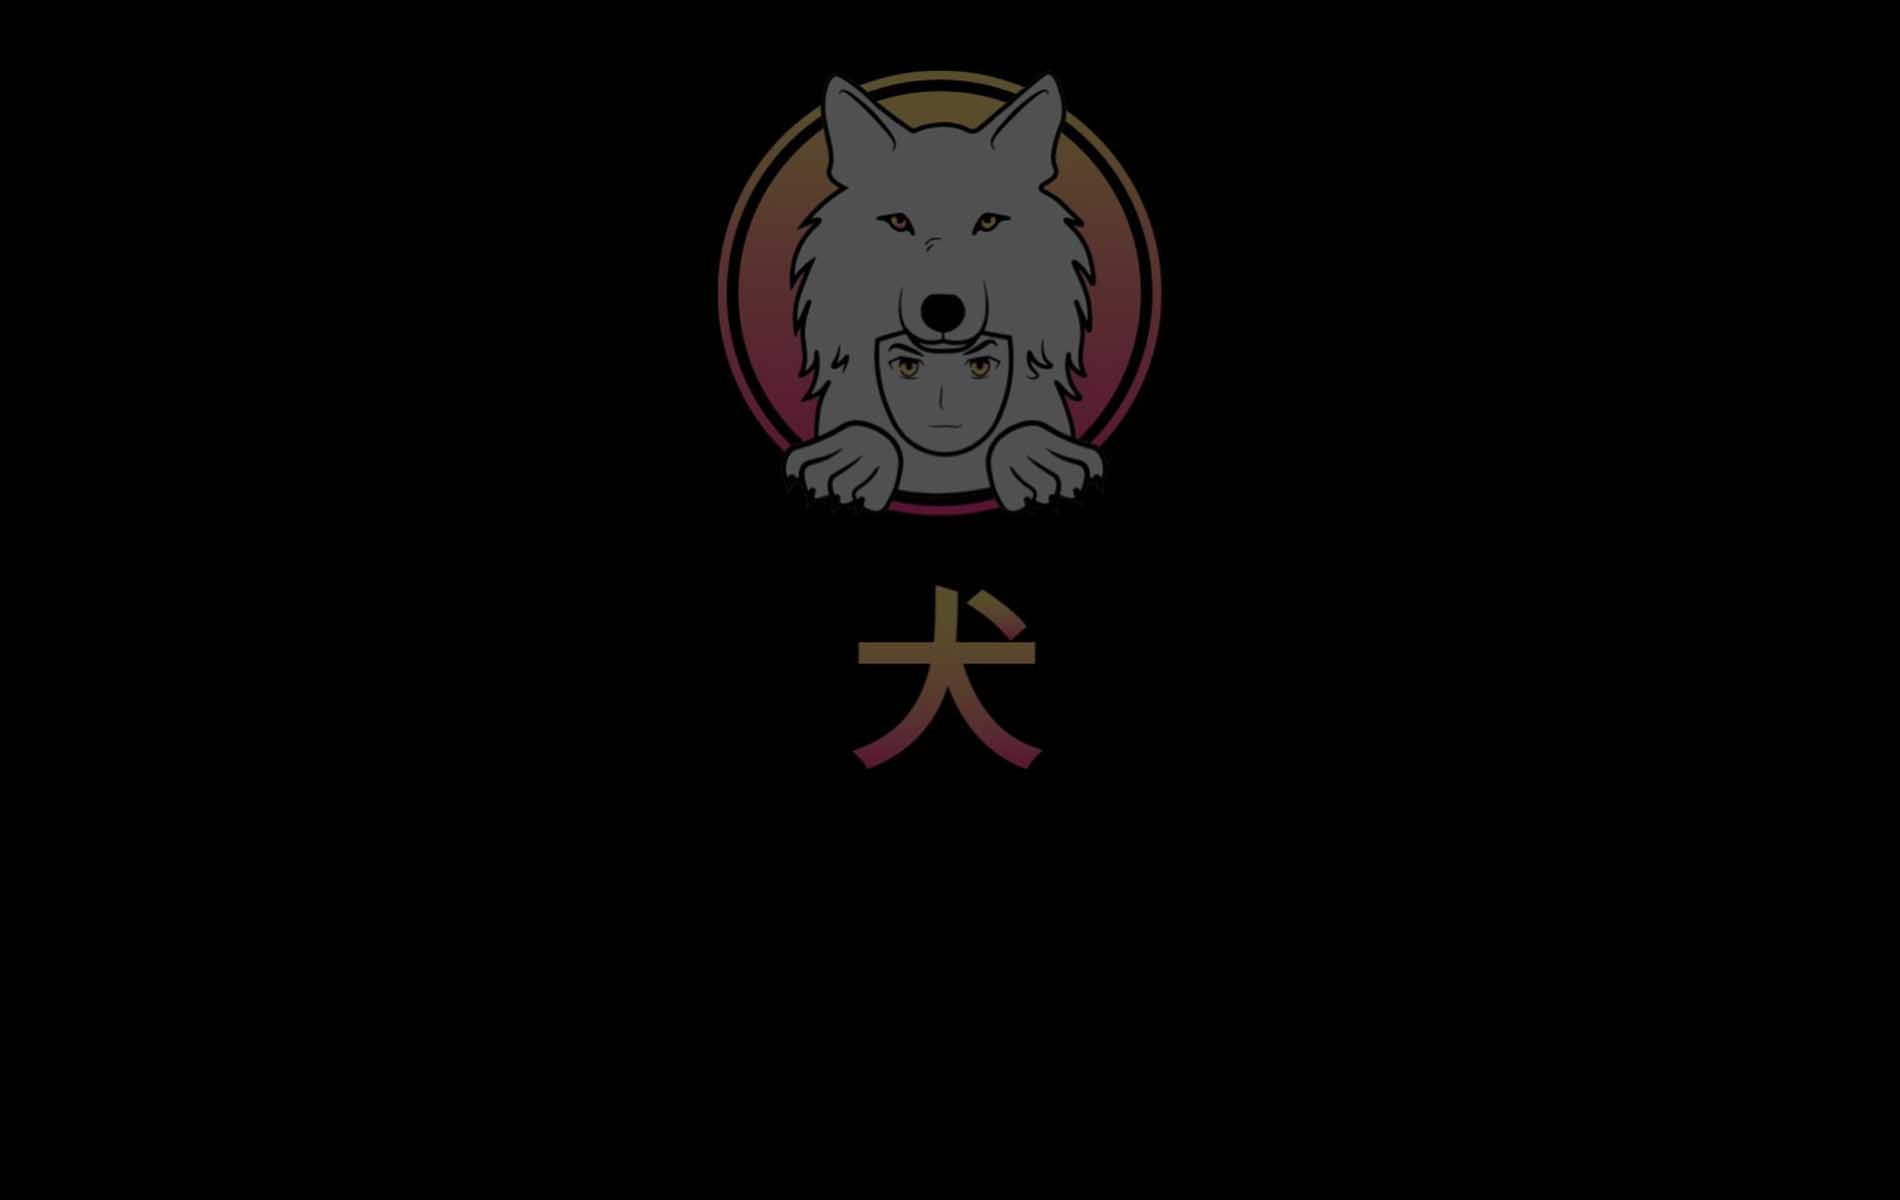
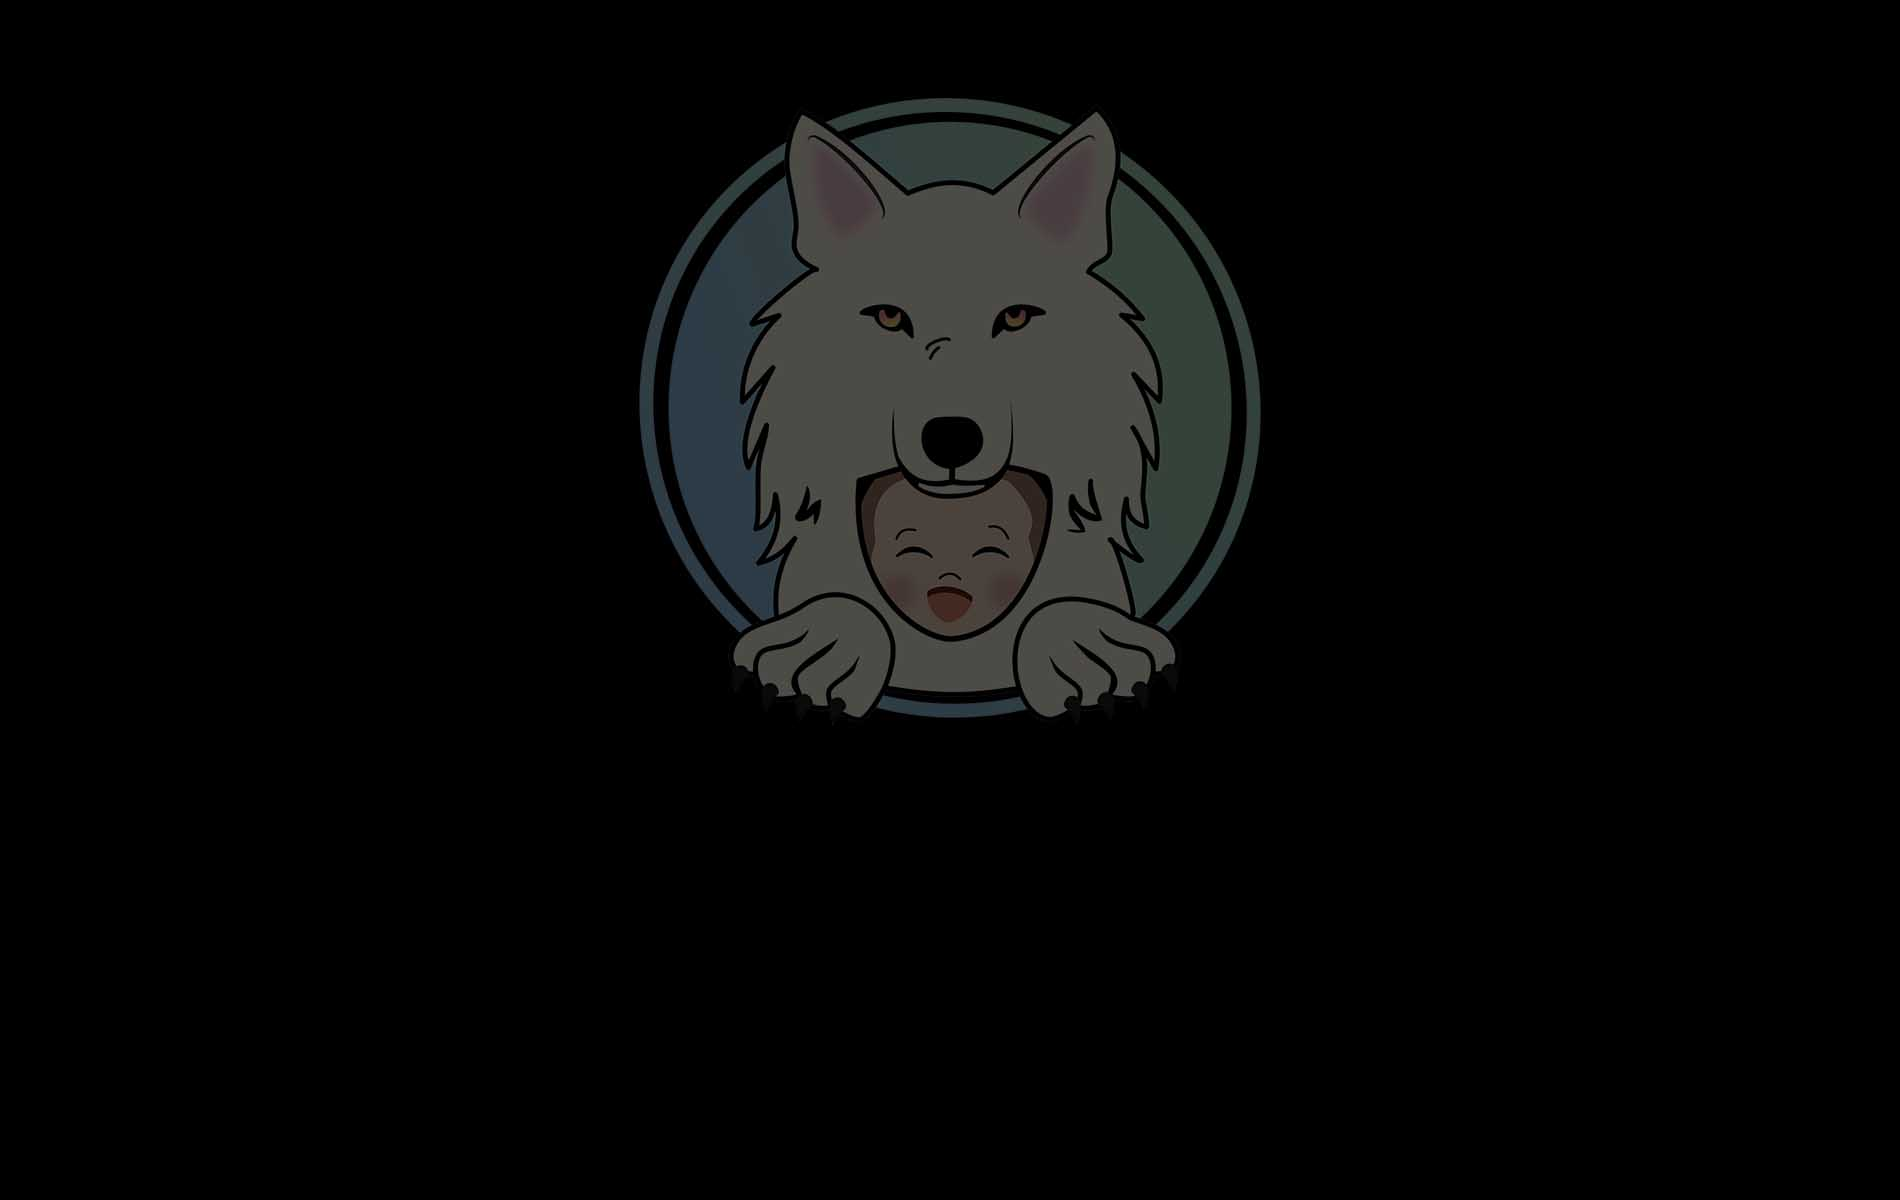
color changes, updated the links, slight text changes

Changed region(s): [[0.3105, 0.0617, 0.6832, 0.6475]]

diff --git a/index.html b/index.html
@@ -108,7 +108,7 @@
                                  <a class="but" href="https://t.me/tinySAITAMA">Telegram</a>
                                  <a class="but" href="https://twitter.com/tinySAITAMA">Twitter</a>
                                  <a class="but" href="#">Buy Now</a>
-                                 <a class="but" href="#">Contract</a>
+                                 <a class="but" href="https://etherscan.io/token/0x25de47da7cec64d7b3531c1c36e61bffa5d9a83d">Contract</a>
                               </div>
                            </div>
                            <!--End row-->
@@ -131,7 +131,7 @@
                <div class="row">
                   <div class="col-sm-12">
                      <h2 class="">About Tiny Saitama</h2>
-                     <p class="lead">Tiny Saitama is a ERC-20 token on that offers frictionless rewards to its holders. It can be traded on the Uniswap platform using TrustWallet or Metamask. Every time a buy or sell happens there is a 8% tax added which redistributes to the holders and helps the team to develop things. The goal of Tiny Saitama is for now to build a strong and active community. After this the main goal is to get listed on CG & CMC as fast as possible to gain the communities trust and attract new investors. <br><br>Tiny Saitama is going to be the main character in a jump and run game which is going to be developed from one of our team members who works in a gaming company.</p>
+                     <p class="lead">Tiny Saitama is a ERC-20 token that offers frictionless rewards to its holders. It can be traded on the Uniswap platform using TrustWallet or Metamask. Every time a buy or sell happens there is a 8% tax added which redistributes to the holders and helps the team to developing. The goal of Tiny Saitama for now is to build a strong and active community. After this, the main goal is to get listed on CG & CMC as fast as possible to gain the communities trust and attract new investors. <br><br>Tiny Saitama is going to be the main character in a jump and run game which is going to be developed from one of our team members who works in a gaming company.</p>
                   </div>
                </div>
                <!--End row-->
@@ -152,7 +152,7 @@
                      <a class="but" href="#">View Chart</a>
                   </div>
                   <div class="col-sm-4" style="margin: 20px 0;">
-                     <a class="but" href="#">Check Etherscan</a>
+                     <a class="but" href="https://etherscan.io/token/0x25de47da7cec64d7b3531c1c36e61bffa5d9a83d">Check Etherscan</a>
                   </div>
                   <div class="col-sm-4" style="margin: 20px 0;">
                      <a class="but" href="#">View LP Locked</a>
@@ -244,7 +244,7 @@
                   <div class="col-md-6 col-md-offset-3 col-sm-8 col-sm-offset-2">
                      <div class="block-content gap-one-bottom-sm" >
                         <h2 class="title">Our Vision</h2>
-                        <p class="lead mb-0" style="text-align: left;">Tiny Saitama aspires to be one of the most popular meme-token on the Ethereum Mainnet. Besides that Saitama aims to have a cult like community which educates each other and supports the team where ever they can. At first our jump and run game will be used for entertainment only but lets see what the future will bring. </p>
+                        <p class="lead mb-0" style="text-align: left;">Tiny Saitama aspires to be one of the most popular meme-tokens on the Ethereum Mainnet. Besides that Saitama aims to have a cult-like community which educates each other and supports the team whereever they can. At first our jump and run game will be used for entertainment only, but lets see what the future will bring.</p>
                      </div>
                   </div>
                </div>
@@ -298,7 +298,7 @@
                                  <svg viewBox="0 0 103 103" version="1.1" xmlns="http://www.w3.org/2000/svg" class="dashed-border">
                                     <circle cx="50%" cy="50%" r="50"></circle>
                                  </svg>
-                                 <span style="color: #f0948b;">1</span>
+                                 <span style="color: #93c5e9;">1</span>
                               </div>
                               <div class="step-body">
                                  <h4>Create a Metamask or Trust Wallet</h4>
@@ -312,7 +312,7 @@
                                  <svg viewBox="0 0 103 103" version="1.1" xmlns="http://www.w3.org/2000/svg" class="dashed-border">
                                     <circle cx="50%" cy="50%" r="50"></circle>
                                  </svg>
-                                 <span style="color: #f0948b;">2</span>
+                                 <span style="color: #93c5e9;">2</span>
                               </div>
                               <div class="step-body">
                                  <h4>Connect your wallet to UniSwap</h4>
@@ -326,12 +326,12 @@
                                  <svg viewBox="0 0 103 103" version="1.1" xmlns="http://www.w3.org/2000/svg" class="dashed-border">
                                     <circle cx="50%" cy="50%" r="50"></circle>
                                  </svg>
-                                 <span style="color: #f0948b;">3</span>
+                                 <span style="color: #93c5e9;">3</span>
                               </div>
                               <div class="step-body">
                                  <h4>Send ETH to your wallet</h4>
                                  <p>
-                                    You can start swapping as soon as you have ETH available! Press ‘Select a token’ and enter the token address or search for it on the tokens list.
+                                    You can buy Ethereum (ETH) directly on MetaMask or transfer it to your MetaMask or Trust Wallet from exchanges like Coinbase, Binance, etc. Make sure to use the ERC-20 network when transfering ETH.
                                  </p>
                               </div>
                            </li>
@@ -340,12 +340,12 @@
                                  <svg viewBox="0 0 103 103" version="1.1" xmlns="http://www.w3.org/2000/svg" class="dashed-border">
                                     <circle cx="50%" cy="50%" r="50"></circle>
                                  </svg>
-                                 <span style="color: #f0948b;">4</span>
+                                 <span style="color: #93c5e9;">4</span>
                               </div>
                               <div class="step-body">
                                  <h4>Swap ETH for $TSAITAMA</h4>
                                  <p>
-                                    From a user perspective, Bitcoin is nothing more than a mobile app or computer program that provides a personal Bitcoin wallet and enables a user to send and receive bitcoins.
+                                    You can start swapping as soon as you have ETH available! Press ‘Select a token’ and enter the token address or search for it on the tokens list.
                                  </p>
                               </div>
                            </li>

diff --git a/css/base.css b/css/base.css
@@ -57,7 +57,7 @@
      display: inline-block;
 }
  ::-moz-selection {
-     background: #df628a;
+     background: #93c5e9;
      color: #ffffff;
 }
 /* End reset & basics (Inspired by E. Meyers) */
@@ -141,11 +141,11 @@
      color: #252525;
 }
  a {
-     color: #df628a;
+     color: #93c5e9;
      font-weight: 700;
 }
  a.cl-secondary{
-     color: #df628a;
+     color: #93c5e9;
 }
  .span{
      font-size: .75em;
@@ -249,7 +249,7 @@
      position: fixed;
      width: 3.425em;
      height: 3.425em;
-     background: #df628a;
+     background: #93c5e9;
      border-radius: 50%;
      text-align: center;
      right: 1.875em;
@@ -259,7 +259,7 @@
      color: #ffffff;
 }
  .cl-1{
-     color: #df628a;
+     color: #93c5e9;
 }
  .cl-2{
      color: #bf3654;
@@ -416,7 +416,7 @@
      position: relative;
      color: #ffffff;
      padding: .7em 2.9567em;
-     background: #df628a;
+     background: #93c5e9;
      text-transform: uppercase;
      font-size: .8em;
      font-weight: 700;
@@ -426,7 +426,7 @@
      background: #bf3654;
 }
  .but:hover {
-     background: #f0948b;
+     background: #add9c3;
 }
  .but.bg-secondary:hover {
      background: #cf3c5c;

diff --git a/js/script.js b/js/script.js
@@ -131,8 +131,8 @@
         states: {
             "default-state": {
                 gradients: [
-                    ['#ffc845', '#bf3654'],
-                    ['#f58770', '#bf3654']
+                    ['#93c5e9', '#aedbbe'],
+                    ['#f2c9d5', '#df896c']
                 ],
                 transitionSpeed: 2000
             }
@@ -147,8 +147,8 @@
         states: {
             "default-state": {
                 gradients: [
-                    ['#ffc845', '#bf3654'],
-                    ['#f58770', '#bf3654']
+                    ['#93c5e9', '#aedbbe'],
+                    ['#f2c9d5', '#df896c']
                 ],
                 transitionSpeed: 2000
             }
